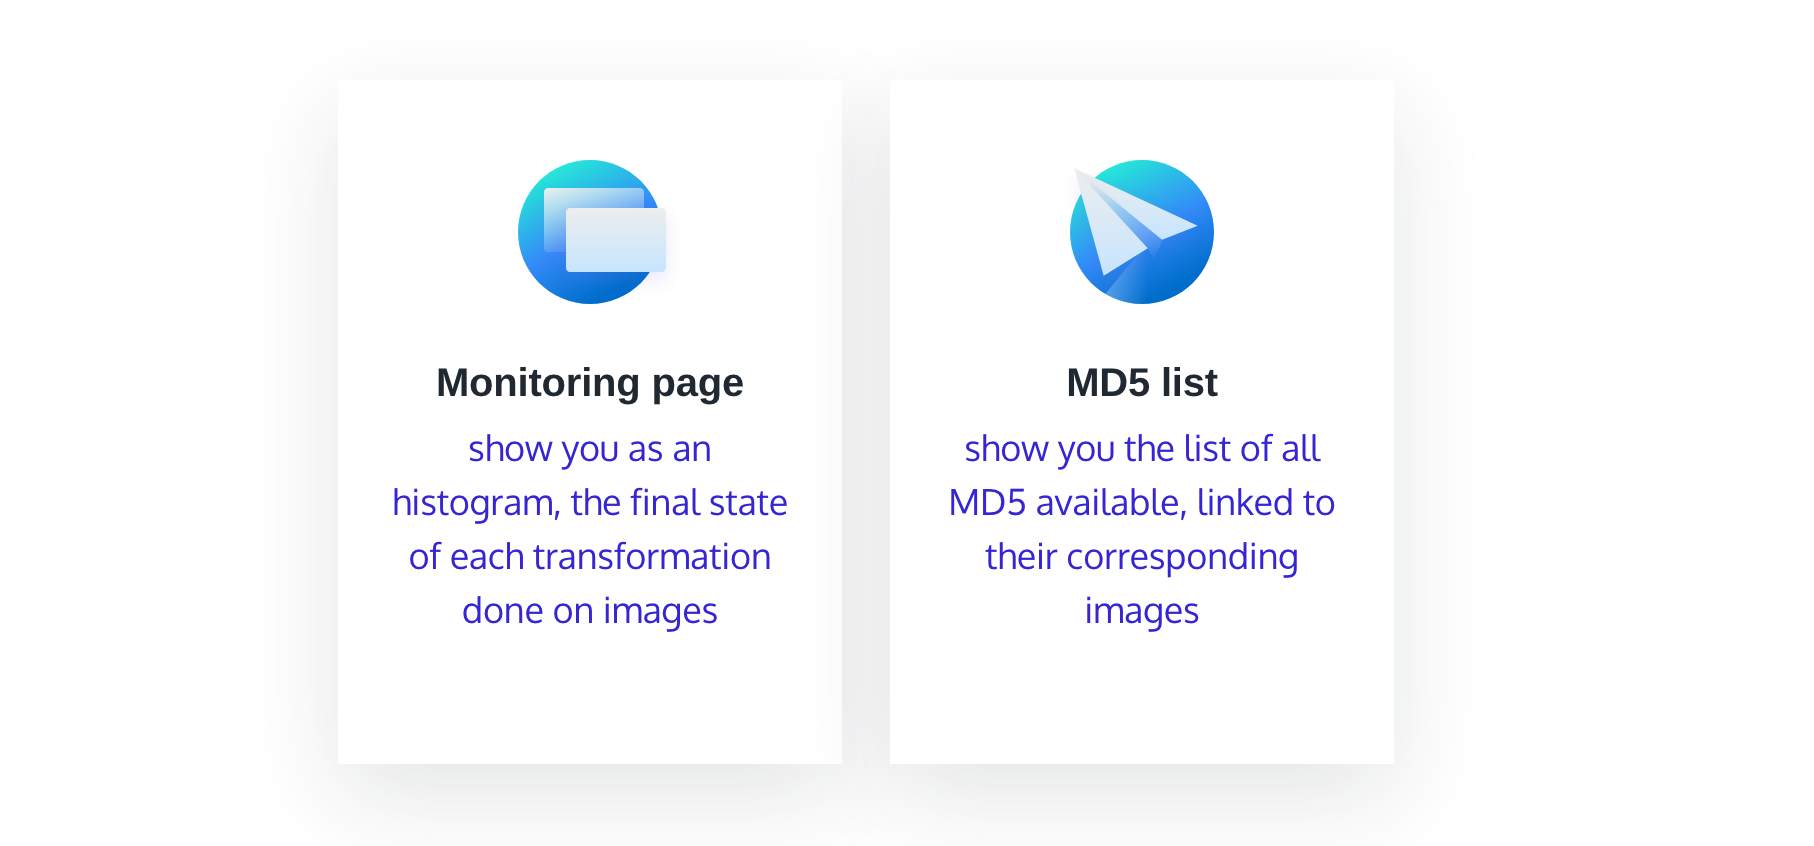
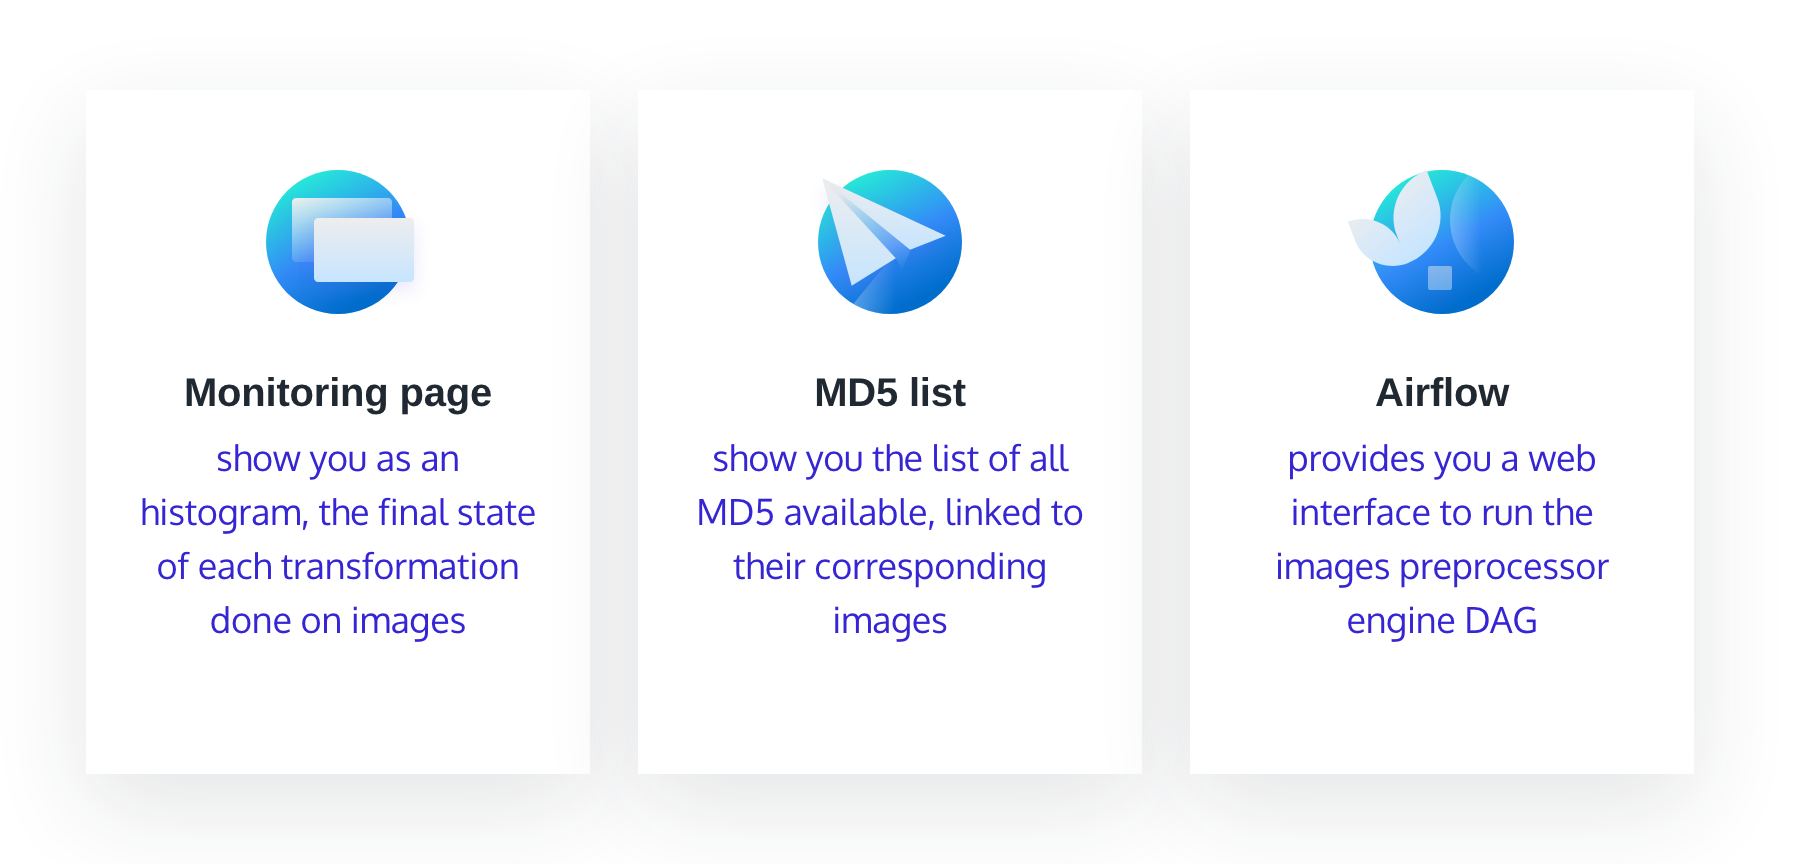
[FLASK] Adding information and content for front office

diff --git a/webservice/templates/index.html b/webservice/templates/index.html
@@ -47,6 +47,17 @@
                                 </div>
                                 </a>
                             </div>
+                            <div class="feature is-revealing">
+                            	<a href="http://localhost:8080/admin">
+                                <div class="feature-inner">
+                                    <div class="feature-icon">
+                                        <img src="/static/images/feature-icon-03.svg" alt="Feature 04">
+                                    </div>
+                                    <h4 class="feature-title">Airflow</h4>
+                                    <p class="text-sm">provides you a web interface to run the images preprocessor engine DAG</p>
+                                </div>
+                                </a>
+                            </div>
                         </div>
                     </div>
                 </div>
@@ -65,7 +76,7 @@
 											<div class="pricing-table-header mb-24 pb-24">
 												<div class="pricing-table-title h4 mt-0 mb-16">Number of state per seconds</div>
 												<div class="pricing-table-price"><span class="pricing-table-price-currency"></span><span class="pricing-table-price-amount h1">{{ transformation_s }}</span> success</div>
-                                                <div class="pricing-table-price"><span class="pricing-table-price-currency"></span><span class="pricing-table-price-amount h1">{{ transformation_e }}</span> error</div>
+                                                <div class="mpricing-table-price"><span class="pricing-table-price-currency"></span><span class="pricing-table-price-amount h1">{{ transformation_e }}</span> error</div>
 											</div>
                                          <a href="/monitoring">
 										<img src="/monitoring" alt="Image not found">
@@ -92,7 +103,6 @@
                                         <span class="h4 m-0" >md5: {{ value["md5"] }} <br />size: {{ value["size"] }}</span>
                                     </a>
 								</li>
-
                               {% endfor %}
 							</ul>
                           </center>
